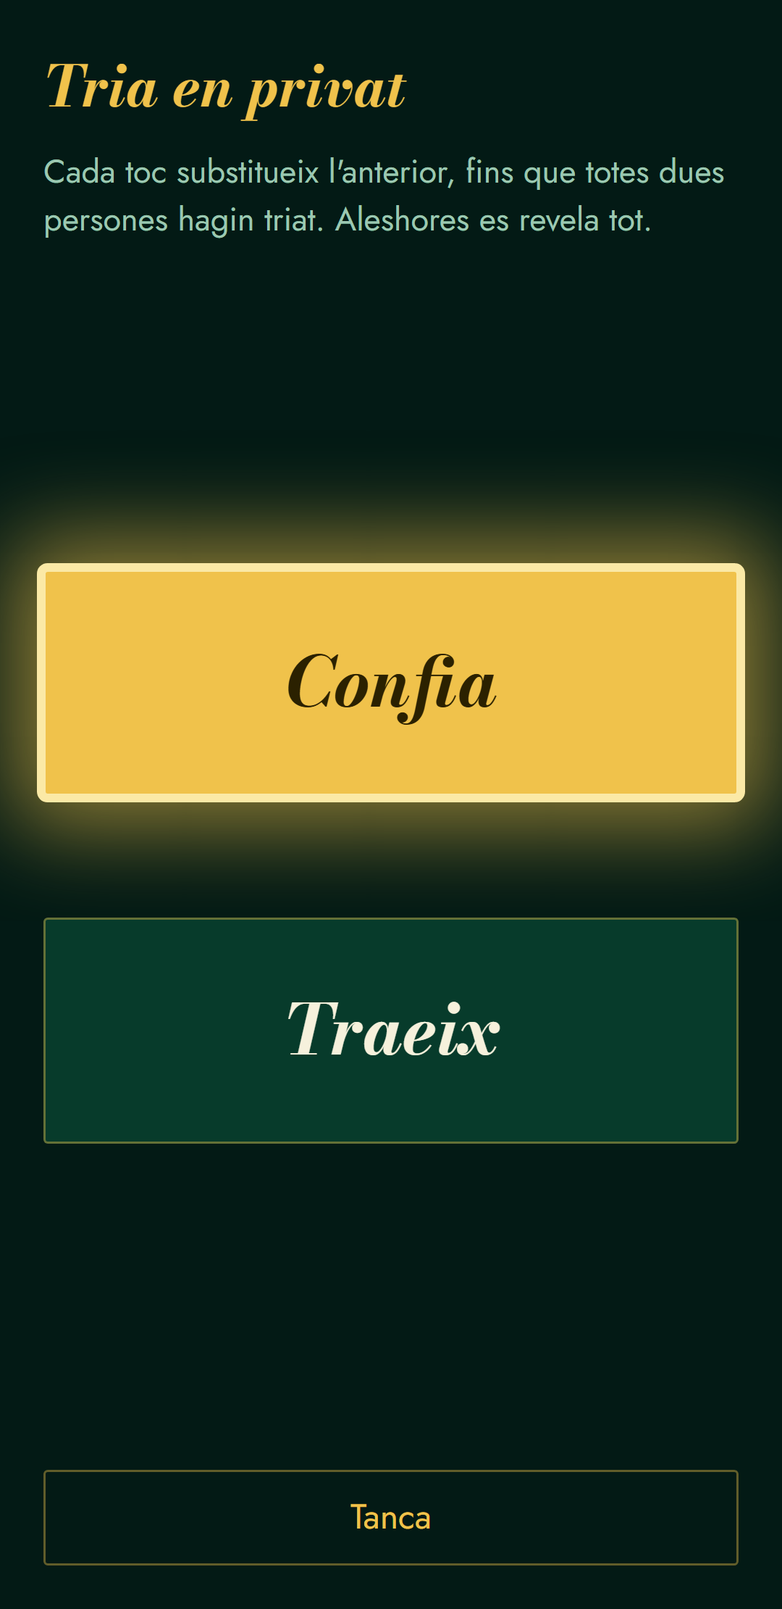
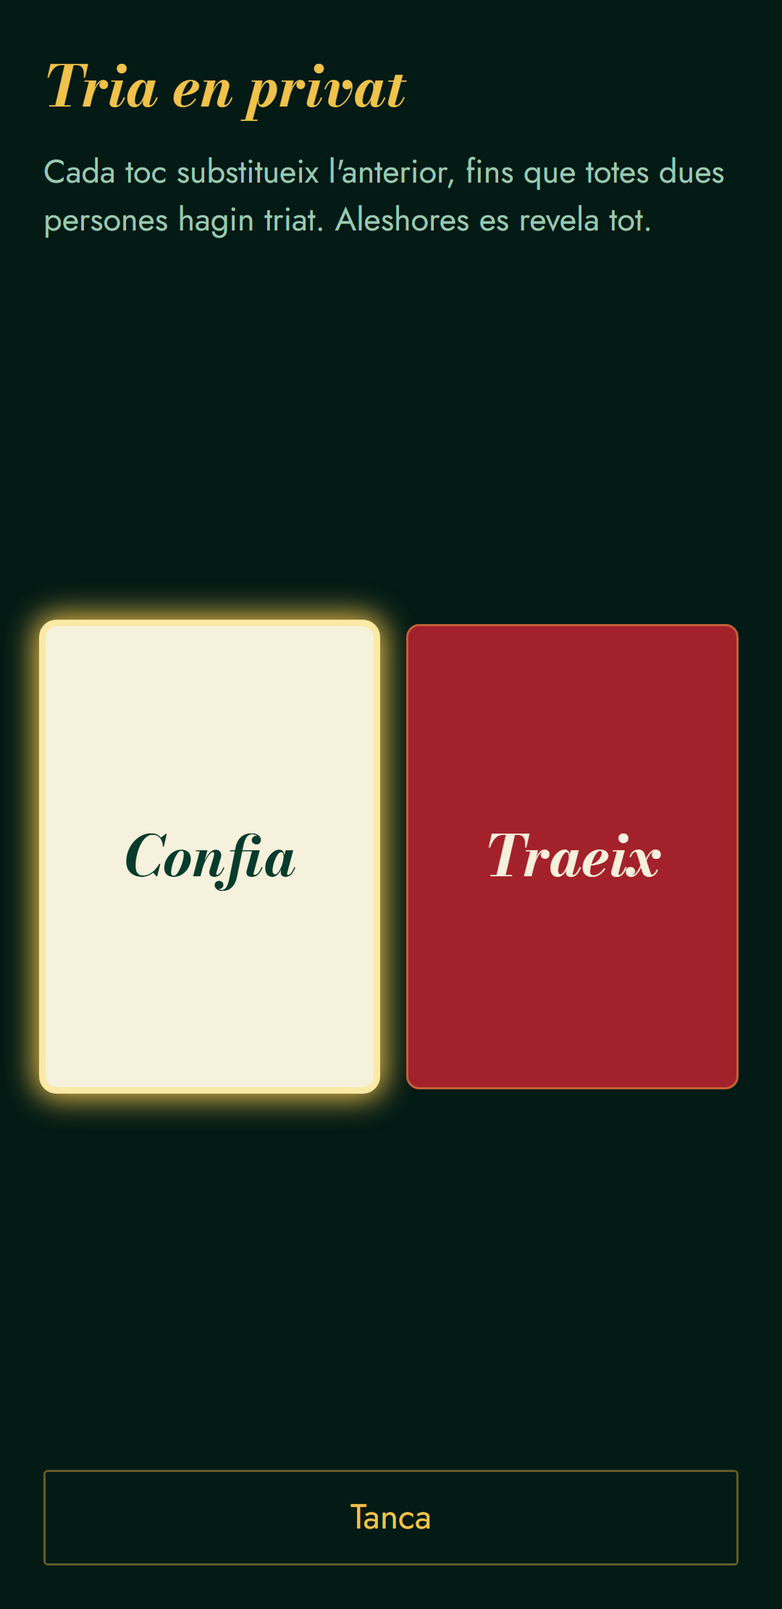
docs(review): hand round 2 of slice 005 over for review
Slice: 005

diff --git a/slices/005-confia-o-traeix/review.md b/slices/005-confia-o-traeix/review.md
@@ -2,13 +2,19 @@
 
 ## 1. What to look at
 
-The first secret-choice game is here. As the admin you can now set up **Confia o traeix**, a duel between two people, playing in it or just running it. Each player opens a private panel on their phone and taps Confia or Traeix. Tapping again changes the pick, nothing shows who has picked, and the moment the second person picks, both phones turn over two cards and pay out. Under **Administració**, you can edit the game's numbers and watch a worked example change as you type.
+This is round 2, and it covers only what you asked for:
 
-There are three things only you can judge: **does the resting screen really give nothing away, does the two-second glow feel clear, and is the reveal dramatic enough?** It takes about 10 minutes, on your phone, with Claude's script playing the other side from a terminal. Secrecy and payouts are covered by tests, listed in section 5.
+1. The glow lasts 0.7 seconds, not 2.
+2. Only the outer border of the card glows, and the card itself doesn't change.
+3. The cards in the private panel now look like the ones on the result screen: rounded, ivory Confia and red Traeix, side by side.
+
+The questions for you are the ones you raised: **is the glow right now, and do the cards look the way you wanted?** It takes about 5 minutes on your phone, with a terminal for the demo commands. Your notes are in the review log below, and the work is R1.1 to R1.3 in [tasks.md](tasks.md). The round 1 steps are in this file's git history, at commit `52ca978`.
+
+Changing the glow meant changing an approved requirement, so REQ-210 now replaces REQ-203, as you chose. Side by side also means the cards are 14px apart rather than well apart, which section 6 mentions.
 
 ## 2. Before you start
 
-- **You need:** your phone, your admin login, and a PowerShell terminal in `C:\Repos\marcona-app`. The commands say `npm.cmd`, because plain `npm` is blocked by this computer's PowerShell script policy. Your login is `MARCONA_ADMIN_USERNAME` and `MARCONA_ADMIN_PASSWORD` in the gitignored `.env.test.local`. An iPhone is best, as it's the only real check of Safari.
+- **You need:** your phone, your admin login, and a PowerShell terminal in `C:\Repos\marcona-app`. Your login is `MARCONA_ADMIN_USERNAME` and `MARCONA_ADMIN_PASSWORD` in the gitignored `.env.test.local`. An iPhone is best, as it's the only real check of Safari. The commands say `npm.cmd`, because plain `npm` and `npx` are blocked by this computer's PowerShell script policy.
 - **Setup:** run this, which cancels every open event and sets you, `demo-nuria` and `demo-pau` to exactly 100 marcones:
 
   ```powershell
@@ -16,124 +22,83 @@ There are three things only you can judge: **does the resting screen really give
   ```
 
   It ends by listing each of those accounts with `: 100`.
-- **The Events list is busy.** Automated tests played real duels between the demo players, so **Passats** holds many called "Prova automàtica" and "Fum …". They go when test data is wiped before the gathering.
-- **Earlier rehearsals.** Claude ran these steps first, so **Passats** already holds several events called Duel1, Duel2 and Duel3. Yours will be the newest.
-- **Reset afterwards:** step 13 puts the settings back. Everything else is demo data, which the wipe removes.
+- **Your settings stay as they are.** **Qui traeix (%)** is now 300. It was saved after Claude's last run in round 1, presumably by you during the review, and Claude hasn't touched it. The numbers below use it: a buy-in of 10 pays a betrayer **30 marcones**. If you've changed it again, go by the rules on the event's screen.
+- **Earlier rehearsals.** Claude ran these steps first, so **Passats** already holds events called Repte1 and Repte2. Yours will be the newest.
+- **Reset afterwards:** Nothing to clean up. It's all demo data, which the wipe removes.
 
 ## 3. How to review
 
 Open https://marccompta.github.io/marcona-app/ on your phone, reload so you get the new version, and log in. This slice's branch is what's deployed there.
 
-### Play a duel
-
-1. Tap **Esdeveniments**, then **Nou esdeveniment**. There's a new **Tipus** list at the top. Choose **Confia o traeix**, as in [new-duel.png](evidence/screens/new-duel.png). The payout percentages go, **Hi jugo** appears, ticked, and under **Convida** it says **Només 1 persona: l'altra ets tu.**
-2. Set **Nom** to `Duel1` and **Entrada** to `10`, tick `demo-nuria`, and tap **Crea l'esdeveniment**. The event opens with the rules and three payoffs: **15 marcones** each if both trust, **25** and **0** if one betrays, **5** each if both betray. You're in the list with the crown, `demo-nuria` is **Pendent**, and it says **Falta que les dues persones hi entrin.** There's no way to pick a choice yet, and, unlike a classic event, no way to pick a winner.
-3. In the terminal, run this and keep your phone on the event:
+1. Tap **Esdeveniments**, then **Nou esdeveniment**. Choose **Confia o traeix** under **Tipus**, set **Nom** to `Repte1` and **Entrada** to `10`, leave **Hi jugo** ticked, tick `demo-nuria`, and tap **Crea l'esdeveniment**.
+2. In the terminal, run this:
 
    ```powershell
-   npm.cmd run demo -- accept Duel1
+   npm.cmd run demo -- accept Repte1
    ```
 
-   It prints `demo-nuria accepted Duel1`. Within about 3 seconds, with no reload, `demo-nuria` shows **Hi participa**, and **Tria en privat** appears at the bottom of the page and the line above it changes to **Les dues persones estan triant.** Scroll down to it, as in [resting.png](evidence/screens/resting.png). **Remember how this screen looks.**
-4. Tap **Tria en privat**. A panel covers the whole screen, with two big buttons set well apart, as in [panel.png](evidence/screens/panel.png).
-5. Tap **Confia**. There's no question and no confirmation: the button lights up gold for two seconds and goes back to normal, as in [glow.png](evidence/screens/glow.png). Nothing else on the screen changes. **Is the glow clear enough?**
-6. Tap **Traeix**. It glows the same way. Your pick is now Traeix.
-7. Tap **Tanca**. The resting screen looks exactly as it did at step 3. Open the panel again: the same two plain buttons, with nothing saying what you picked. Tap **Tanca** again. **Could a glance at your phone give you away?**
-8. In the terminal:
+   It prints `demo-nuria accepted Repte1`. Within about 3 seconds **Tria en privat** appears at the bottom of the page. Scroll down and tap it.
+3. **The cards (item 3).** Two cards sit side by side: rounded, ivory **Confia** and red **Traeix**, the same size and shape as each other, as in [panel.png](evidence/screens/panel.png). **Do they look the way you wanted?** Step 7 shows the result screen, to compare.
+4. **The glow (items 1 and 2).** Tap **Confia**. A moment later, once the server has saved it, its outer edge lights up gold for 0.7 seconds and goes, as in [glow.png](evidence/screens/glow.png). The card keeps its colour and text, and nothing else on the screen changes. On mobile data the moment before it lights may be longer. **Is it right now?**
+5. Tap **Traeix**. Its edge lights up the same way, as in [glow-traeix.png](evidence/screens/glow-traeix.png). Your pick is now Traeix.
+6. Tap **Tanca**, then **Tria en privat** again. The same two plain cards, with nothing lit and nothing saying what you picked. Tap **Tanca**.
+7. In the terminal:
 
    ```powershell
-   npm.cmd run demo -- pick Duel1 confia
+   npm.cmd run demo -- pick Repte1 confia
    ```
 
-   It prints `demo-nuria picked confia, and the duel is revealed`. Keep your eyes on the phone. Within about 3 seconds it jumps up to two face-down cards, which turn one at a time, yours first, as in [reveal-first.png](evidence/screens/reveal-first.png). About 4 seconds later comes **Traïció!**, with confetti and a large `+15`, which is your gain after the 10 you paid. The `+15` covers the middle of the cards for a little over a second, then goes. Under the cards are the results: you, **Traeix**, **25 marcones**, and `demo-nuria`, **Confia**, **0 marcones**, as in [reveal-win.png](evidence/screens/reveal-win.png). **Is it dramatic enough?** Your last tap is the one that counted.
-9. Tap **Auditoria**. The top three rows are Duel1: your **Premi** of **+25**, then `demo-nuria`'s **Entrada** of **-10**, then yours. `demo-nuria` has no prize row, because a payout of 0 writes no movement.
+   It prints `demo-nuria picked confia, and the duel is revealed`. Within about 3 seconds the phone jumps up to two face-down cards, which turn one at a time, yours first. About 4 seconds later comes **Traïció!**, with confetti and a large `+20`, which is your gain: the 30 you won less the 10 you paid. Once that's gone, a little over a second later, the cards look as in [reveal-result.png](evidence/screens/reveal-result.png): you, **Traeix**, **30 marcones**, and `demo-nuria`, **Confia**, **0 marcones**. Your last tap is the one that counted. Here the cards are in player order, with yours first, so Traeix is on the left, while the panel always has Confia on the left.
 
-### Run a duel without playing
+**Regression check: the glow comes first on the last tap**
 
-10. Tap **Esdeveniments**, then **Nou esdeveniment**. Choose **Confia o traeix**, set **Nom** to `Duel2` and **Entrada** to `10`, untick **Hi jugo**, and the line under **Convida** changes to **Exactament 2 persones.** Tick `demo-nuria`, `demo-pau` and **Participació obligatòria**, and tap **Crea l'esdeveniment**. At the top you show under **Organitza** with the crown, not as a participant. Further down both demo players are already in, and you have no **Tria en privat**, as in [organiser.png](evidence/screens/organiser.png). Now run the first of these, wait about 7 seconds, and check that **nothing on your phone changes**. Then run the second:
+8. Tap the **Esdeveniments** tab, then **Nou esdeveniment**. Choose **Confia o traeix**, set **Nom** to `Repte2` and **Entrada** to `10`, leave **Hi jugo** ticked, tick `demo-nuria` and **Participació obligatòria**, and tap **Crea l'esdeveniment**. Then run this:
 
-    ```powershell
-    npm.cmd run demo -- pick Duel2 traeix demo-nuria
-    npm.cmd run demo -- pick Duel2 traeix demo-pau
-    ```
+   ```powershell
+   npm.cmd run demo -- pick Repte2 traeix
+   ```
 
-    Within about 3 seconds the cards appear, and about 4 seconds later you see **Doble traïció**, with **5 marcones** each, as in [reveal-both.png](evidence/screens/reveal-both.png). There's no confetti, because you weren't playing. Tap **Auditoria**: the top four rows are Duel2, two prizes of **+5** and two **Entrada obligatòria** of **-10**, all on `demo-nuria` and `demo-pau`. The entries say **Feta per** you, but none of the four is on your balance, so you paid nothing.
+   It prints `demo-nuria picked traeix`. Nothing changes on your phone, because a pick stays hidden.
 
-### Change the settings
-
-11. Tap **Administració** and scroll to **Jocs**. Change **Totes dues confien (%)** to `120`. The example underneath changes as you type, to **12 marcones (120%)**, as in [settings.png](evidence/screens/settings.png). While a field is empty, the example pauses. Now change **Totes dues traeixen (%)** to `200` and tap **Desa el joc**: a Catalan error explains the order the numbers must keep. Put it back to `50`, tap **Desa el joc**, and it says the changes are saved for new events.
-12. Create one more duel: **Confia o traeix**, **Nom** `Duel3`, **Entrada** `10`, **Hi jugo** ticked, inviting `demo-pau`. Its first payoff now says **12 marcones (120%)**. Then run this, and within about 3 seconds the duel shows **Cancel·lat**:
-
-    ```powershell
-    npm.cmd run demo -- decline Duel3
-    ```
-
-    Tap **Auditoria**: the top row is your **Devolució de l'entrada** of **+10** on Duel3.
-
-13. **Put the settings back.** Under **Administració**, set **Totes dues confien (%)** to `150`, untick **Joc actiu** and tap **Desa el joc**. Tap **Esdeveniments**, then **Nou esdeveniment**: **Tipus** now offers only **Clàssic**. Tap the **Administració** tab, tick **Joc actiu** again and tap **Desa el joc**. It must end with **Joc actiu** ticked and the numbers at 150, 250, 0 and 50.
+9. Scroll down and tap **Tria en privat**, then tap **Confia**. This tap completes the pair: the edge glows for 0.7 seconds, and only then does the reveal start. It ends with **Traïció!**, **demo-nuria ha traït** you, and no confetti, because you lost.
 
 ## 4. Checklist
 
 | # | Requirement | Check | Expected result |
 |---|---|---|---|
-| 1 | REQ-175 | Step 1 | The admin can choose classic or Confia o traeix |
-| 2 | REQ-177, REQ-176 | Automated | A player only gets a classic event, and the API refuses them a game |
-| 3 | REQ-121, REQ-146 | Step 13, and automated | A game that's off isn't offered, and the server refuses it |
-| 4 | REQ-178, REQ-179 | Steps 1, 2 and 9 | You can choose to play, you're listed as a player, and the audit shows your entry |
-| 5 | REQ-180 | Automated | An admin without the buy-in sees a Catalan error, and no event exists |
-| 6 | REQ-181 | Step 10 | When not playing, you aren't charged or listed as a player |
-| 7 | REQ-182 | Steps 1 and 10, and automated | The form says how many to invite, and the wrong number is refused |
-| 8 | REQ-123, REQ-124 | Steps 2 and 8, and automated | A duel has no way to pick a winner, and the API refuses it |
-| 9 | REQ-122, REQ-149 | Automated | A running duel keeps its numbers after a settings change |
-| 10 | REQ-183 | Step 12 | A decline cancels the duel and refunds whoever paid |
-| 11 | REQ-184 | Automated | Removing an invited player cancels the duel and refunds whoever paid |
-| 12 | REQ-125, REQ-139, REQ-202, REQ-203 | Steps 4 to 6 | **Your judgement:** one tap saves, with no confirmation. The button glows clearly for two seconds, and nothing else changes |
-| 13 | REQ-202 | Steps 6 and 8, and automated | The last tap counts, even on a slow connection |
-| 14 | REQ-204 | Automated | A tap after both have picked changes nothing, and shows the reveal |
-| 15 | REQ-127 | Step 8, and automated | The reveal happens at once, and pays exactly once, even when both tap together |
-| 16 | REQ-128 | Automated | Nobody can read a choice through the API, a function or Realtime |
-| 17 | REQ-129, REQ-131 | Steps 2 and 7 | The rules and payoffs are in full, and nothing hints at a choice |
-| 18 | REQ-132, REQ-145 | Steps 8 and 9 | Every choice and payout shows, and the payouts are ordinary movements |
-| 19 | REQ-133 | Step 8 | **Your judgement:** the reveal is dramatic. Reduced motion is covered by tests |
-| 20 | REQ-134 | Steps 3, 8 and 10 | The phone updates by itself within about 3 seconds |
-| 21 | REQ-135 | Automated | Cancelling a stuck duel refunds both players |
-| 22 | REQ-140 to REQ-143 | Steps 2, 8 and 10, and automated | The payouts match the table, rounded down |
-| 23 | REQ-144 | Step 11, and automated | Numbers that break the order show a Catalan error. Tests check that nothing is saved |
-| 24 | REQ-146, REQ-147 | Steps 11 to 13, and automated for the description | New events use the changes |
-| 25 | REQ-148 | Step 11 | The worked example changes as you type |
-| 26 | REQ-191 | Step 10 | A forced duel charges both and goes straight to choosing |
-| 27 | REQ-194 | Step 10, and automated | Nothing changes on your screen when someone locks in |
-| 28 | REQ-195, REQ-198 | Step 7 | **Your judgement:** a glance at your phone gives nothing away |
-| 29 | Not a requirement | All of it, on an iPhone | It works and runs smoothly in real Safari. Tests cover WebKit on Linux, not an iPhone |
+| 1 | R1.1, REQ-210 | Steps 4 and 5 | **Your judgement:** the glow lasts 0.7 seconds. A test measures it |
+| 2 | R1.2, REQ-210 | Steps 4 and 5 | **Your judgement:** only the outer border glows. A test checks that the card's colour and text don't change |
+| 3 | R1.3, no requirement covers the look | Steps 3 and 7 | **Your judgement:** the cards look like the ones on the result screen. A test compares their colours, corners, lettering and shape |
+| 4 | REQ-198, REQ-195 | Step 6 | The cards look the same whether or not you've picked |
+| 5 | REQ-202 | Steps 5 and 7, and automated | The last tap counts. A test covers quick taps on a slow connection, where the taps go in order and the last one wins |
+| 6 | REQ-133, REQ-210 | Step 9 | The tap that completes the pair glows first, then the reveal starts |
+| 7 | REQ-204 | Automated | A tap after both have picked changes nothing and doesn't glow |
+| 8 | Not a requirement | All of it, on an iPhone | It works and looks right in real Safari. Tests cover WebKit on Linux, not an iPhone |
 
 ## 5. Already checked automatically
 
 | Check | Command | Result |
 |---|---|---|
-| Unit tests | `npm test` | 114 passed |
-| Build, with the type check | `npm run build` | Passed |
-| Browser tests, Chromium, local build | `npx playwright test --project=chromium --workers=3` | 241 passed, 63 of them new tests of games, including the phone-sized smoke test of a real duel (REQ-100) |
-| Browser tests, WebKit and Chromium, on Linux in GitHub Actions | The `browsers` job in `.github/workflows/ci.yml` | 466 passed: 233 in each engine. 16 skipped: the 8 tests per engine that need the real project |
-| **Browser tests, WebKit, on this computer** | `npx playwright test --project=webkit` | **Not run: Windows Smart App Control blocks it, as in slice 004** |
-| Hosted tests, on the real project | `npm run test:hosted` | 179 passed, 13 of them new tests of games through the real API |
-| Game rules and payouts | `tests/sql/games.sql`, through `execute_sql` | All 80 checks passed |
-| Owner-level rules | `tests/sql/constraints.sql`, through `execute_sql` | All 18 rejected, 5 of them new |
-| Payout maths and forced participation | `tests/sql/events.sql`, through `execute_sql` | All passed, with 61,812 splits checked. Run because the migrations rewrote `complete_event` and `answer_invitation` |
-| Roulette odds | `tests/sql/roulette.sql` | Not run: no migration touched it |
+| Unit tests | `npm.cmd test` | 114 passed |
+| Browser tests, Chromium, local build | `npx.cmd playwright test --project=chromium --workers=3` | 243 passed, including a real duel on the hosted project. An earlier run had one failure, that real duel, because it expected the default 250%. It's fixed, and this full run is after the fix |
+| The game browser tests, under load | `npx.cmd playwright test tests/e2e/games.spec.ts --project=chromium --repeat-each=4` | 260 passed, run because a 0.7-second glow leaves tests much less time |
+| Browser tests, WebKit and Chromium, on Linux in GitHub Actions | The `browsers` job in `.github/workflows/ci.yml` | 470 passed: 235 in each engine. 16 skipped: the 8 tests per engine that need the real project |
+| **Browser tests, WebKit, on this computer** | `npx.cmd playwright test --project=webkit` | **Not run: Windows Smart App Control blocks it, as in slice 004** |
+| Hosted tests, on the real project | `npm.cmd run test:hosted` | 179 passed |
+| SQL checks | `tests/sql/games.sql`, `constraints.sql`, `events.sql` | Not rerun this round: no migration. All passed in round 1 |
 | Docs and traceability | `python scripts/check_docs.py` | Passed |
-| Supabase advisors | `get_advisors` | Nothing new in kind. The new `private.choices` joins the expected "no policies" note, and the new public functions join the expected note on signed-in users calling functions |
-| Deliberate breaks | Throwaway scripts | All 14 ways of breaking the screens were caught in the end. Two survived at first and exposed weak tests, where a retrying check simply waited out a glow or an animation. Both tests are fixed. Three first failed at the build and one changed nothing, so they proved nothing until rewritten. The SQL wasn't broken on purpose, as it's the live database |
+| Deliberate breaks | Throwaway scripts | The tests for items 1 to 3 failed before the fixes went in. "A late tap glows" and "the reveal doesn't wait for the glow" were broken again, because their tests changed, and both are caught |
 
-Looking at the screenshots found what no test had: **the reveal played off-screen.** **Tria en privat** is at the bottom of a long page, so a player was scrolled away from the cards. The reveal now brings itself into view, and a test covers it.
+Your change to **Qui traeix (%)** exposed a fault in my tests, not the app: the smoke test and two hosted tests assumed the default numbers. They now read them from each duel's stored settings.
 
-One full run of the game tests had a single failure, straight after a deliberate break, and it didn't happen again in the next 310 test runs. The likely cause is that run reusing the broken build's server, but that isn't proven. The first full Chromium run also had one real-project login failure, which passed on a rerun. It looks like the stall recorded in slices 003 and 004.
+The border test first passed against the old full-card glow, because it read the colours before the fade had started. It now reads them mid-glow, and failed as it should before the fix.
 
-Instructions run as written: a script ran steps 1 to 13 on the deployed site, in Chromium at 360 by 740, logged in as the admin, using the commands exactly as above, and every expected result matched. Nothing has been tried on a real phone or in real Safari. Audit by `slice-auditor`: **failed on the wording of this file, not on the slice.** It ran the setup and all 13 steps on the deployed site in Chromium, logged in as the admin, and every result on screen matched: the panel and resting screen were pixel-identical before and after a pick, and also after a reload. It left the settings at 150, 250, 0 and 50, with the game on. Its main catch was that plain `npm` is blocked by this computer's PowerShell policy, which would have stopped you at setup. The commands now say `npm.cmd`, which I checked under that policy. It also found checklist rows claiming money results their steps didn't show, an unclear step 13, a screenshot caught mid-fade, and a button that's at the bottom of the page rather than the screen. All are fixed, and the balance checks are now in steps 10 and 12. Its claim that `AGENTS.md` lacks `pick` and `tests/sql/games.sql` was wrong, as both are there. After these edits a script ran all 13 steps again as written, with every result matching, but no second audit ran.
+Instructions run as written: a script ran steps 1 to 9 on the deployed site, in Chromium at 360 by 740, logged in as the admin, using the commands exactly as above, and every expected result matched. Nothing has been tried on a real phone or in real Safari. Audit by `slice-auditor`: **passed.** It ran the setup and all 9 steps on the deployed site in Chromium, logged in as the admin, with the commands in a plain PowerShell under this computer's default policy, and every result matched. It measured the glow as visible for about 0.75 seconds, including its fades, starting 0.12 to 0.23 seconds after the tap. The card's colour and text stayed the same, and only the tapped card's edge changed. Its screens were pixel-identical to the images linked here. Its main catch was that step 7 didn't name the `+20`, which a reviewer told to expect 30 could read as a bug. That's fixed, as are the `npm` commands in this section, the route in step 8, the delay before the glow, and a headline of 243 that was inferred, which is now a real full run. It again said `AGENTS.md` lacks `pick`, which is wrong. No second audit ran after these edits, which change only this file. It left completed Repte1 and Repte2 duels, and balances that the `fund 100` in section 2 resets.
 
 ## 6. Known limitations
 
-- **Someone watching a player tap sees the tap.** The app hides the state afterwards, not the moment itself, as the design says.
-- **The second player's first tap is final, and they can't know they're second.** This follows from revealing the moment both have picked. The panel says so without saying who has picked.
+- **The second player's first tap is final, and they can't know they're second.** This follows from revealing the moment both have picked, and the panel says so without saying who has picked. The cards are now 14px apart, as you chose, so a mis-tap on that tap is more likely, and it can't be undone. The design had kept the buttons well apart for this reason.
+- **Someone watching a player tap sees the tap,** and now the two cards are different colours, so which one they tap is easier to see from a distance. The app hides the state afterwards, not the moment itself, as the design says.
 - **The Pendent status can lag.** When one of two invited players accepts, the other phones show it only at the next change of phase or a reload. The screen only checks the game's phase, which is the same for everyone by design. Live updates are slice 006.
 - **A stuck duel has no hint.** If one player never picks, nobody can tell who, including you. You ask them or cancel, as the design decided.
 - **The reveal plays once per phone,** using browser storage. If storage is blocked, it plays on every visit. Nothing asked for this: it was the simplest way to play it for someone who wasn't watching when it happened.
@@ -157,3 +122,9 @@ Type one of these in a Claude Code session started at the repo root:
   1. Make the glow last 0.7 seconds, not 2.
   2. Only the external border of the card glows, not the whole card.
   3. Make the cards in the selection screen look more similar to the ones in the result page, with their rounded colours, background and so on.
+
+### Round 2
+
+- Verdict: pending
+- Date:
+- Notes:

diff --git a/slices/005-confia-o-traeix/spec.md b/slices/005-confia-o-traeix/spec.md
@@ -1,7 +1,7 @@
 ---
 slice: "005"
 title: Confia o traeix
-status: building
+status: in-review
 requirements: [REQ-121, REQ-122, REQ-123, REQ-124, REQ-125, REQ-127, REQ-128, REQ-129, REQ-131, REQ-132, REQ-133, REQ-134, REQ-135, REQ-139, REQ-140, REQ-141, REQ-142, REQ-143, REQ-144, REQ-145, REQ-146, REQ-147, REQ-148, REQ-149, REQ-175, REQ-176, REQ-177, REQ-178, REQ-179, REQ-180, REQ-181, REQ-182, REQ-183, REQ-184, REQ-191, REQ-194, REQ-195, REQ-198, REQ-202, REQ-204, REQ-210]
 ---
 
